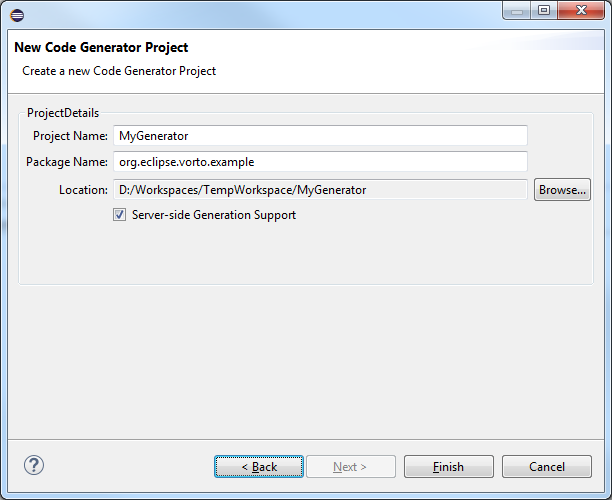
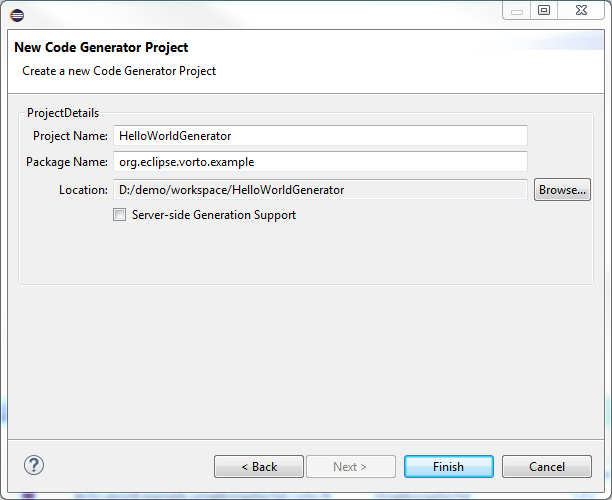
updated document "how to implement a code generator";

diff --git a/website/documentation/developer-api/codegenerator-implementation.md b/website/documentation/developer-api/codegenerator-implementation.md
@@ -13,7 +13,6 @@ This section details the following topics:
 
 [Testing the New Code Generator](#testing-the-new-code-generator)
 
-[Runing the Example Code Generator](#running-the-example-code-generator)
 
 ## Creating a New Code Generator Plug-in Project
 
@@ -28,7 +27,7 @@ You have started your IDE.
 2. In the field **Project name**, enter a project name.  
    ![new Code Generator plug-in project]({{base}}/img/documentation/vorto_new_codegen_project.png)
 3. Click **Finish**.  
-4. The new plug-in projects **org.eclipse.vorto.example.mygenerator** and **org.eclipse.vorto.example.service** are now generated. All dependencies required by the new project, as well as default classes and configuration files are generated.  
+4. The new plug-in projects **org.eclipse.vorto.example.helloworldgenerator** is now generated. All dependencies required by the new project, as well as default classes and configuration files are generated.  
 
    ![Default Code Generator plug-in project]({{base}}/img/documentation/vorto_codegen_default.png)
 
@@ -41,34 +40,44 @@ You have created a plug-in project. (refer to [Create a New Code Generator Plug-
 Implement the actual code under the `generate()` method for the code to be generated - for example:
 
 	package org.eclipse.vorto.example
-
-	import org.eclipse.core.runtime.IProgressMonitor
-	import org.eclipse.vorto.codegen.api.ICodeGenerator
-	import org.eclipse.vorto.codegen.api.tasks.Generated
-	import org.eclipse.vorto.codegen.api.tasks.ICodeGeneratorTask
-	import org.eclipse.vorto.codegen.api.tasks.IOutputter
-	import org.eclipse.vorto.codegen.api.tasks.eclipse.EclipseProjectGenerator
+	
+	import org.eclipse.vorto.codegen.api.ChainedCodeGeneratorTask
+	import org.eclipse.vorto.codegen.api.GenerationResultZip
+	import org.eclipse.vorto.codegen.api.GeneratorTaskFromFileTemplate
+	import org.eclipse.vorto.codegen.api.IFileTemplate
+	import org.eclipse.vorto.codegen.api.mapping.InvocationContext;
+	import org.eclipse.vorto.codegen.api.IVortoCodeGenerator
 	import org.eclipse.vorto.core.api.model.informationmodel.InformationModel
-
-	class MyGenerator implements ICodeGenerator<InformationModel> {
-
-		override generate(InformationModel infomodel, IProgressMonitor monitor) {
-			new EclipseProjectGenerator(infomodel.getName()+"Device").addTask(new EmptyJavaGeneratorTask()).javaNature().generate(infomodel,monitor);
+	
+	class HelloWorldGenerator implements IVortoCodeGenerator {
+	
+		override generate(InformationModel infomodel, InvocationContext context) {
+			var output = new GenerationResultZip(infomodel,getServiceKey());
+			var generator = new ChainedCodeGeneratorTask<InformationModel>();
+			generator.addTask(new GeneratorTaskFromFileTemplate(new SampleTemplate()));
+			generator.generate(infomodel,context,output);
+			return output
 		}
-
-		public static class EmptyJavaGeneratorTask implements ICodeGeneratorTask<InformationModel> {
-			public override generate(InformationModel infomodel, IOutputter outputter) {
-		    	outputter.output(new Generated(infomodel.getName(),null, getContent));
-		    }
-		    def String getContent() {
-		   		return '//My first code generator for vorto';
+		
+		public static class SampleTemplate implements IFileTemplate<InformationModel> {
+			override getFileName(InformationModel context) {
+				return "sample.txt"
+			}
+				
+			override getPath(InformationModel context) {
+				return "output"
+			}
+				
+			override getContent(InformationModel model, InvocationContext context) {
+		   		return '''Hello World from information model «model.name» !''';
 		    }
 		}
-
-		override getName() {
-			return "MyGenerator";
+		
+		override getServiceKey() {
+			return "helloworldgenerator";
 		}
 	}
+
 
 <table class="table table-bordered">
 	<tbody>
@@ -91,31 +100,18 @@ After packaging and deploying the plug-in in the eclipse plug-ins folder the cod
 
 **Proceed as follows**
 
-1. In the **Package Explorer**, select the plug-in project (`MyGenerator` in the example).
+1. In the **Package Explorer**, select the plug-in project (`HelloWorldGenerator` in the example).
 2. From the context menu, choose **Run As > Eclipse Application**.
   A new Eclipse instance is started.
 3. Switch to the **Vorto** perspective.
-4. Create an information model (e.g., `PhilipsHue`) and select it.
-5. From the context menu, choose **Generate Code > Invoke MyGenerator**.  
-  ![testing demo generator]({{base}}/img/documentation/vorto_invoke_mygenerator.png)  
-  A new project with name `PhilipsHueDevice` is generated.  
-  ![testing demo generator]({{base}}/img/documentation/vorto_mygenerator_result.png)
+4. Create a new Vorto Project.
+5. Create an information model or download an existing information model from vorto repository (e.g., `XDK`) and select it.
+6. From the context menu, choose **Generate Code > HelloWorldGenerator**.  
+  ![testing demo generator]({{base}}/img/documentation/vorto_invoke_HelloWorldGenerator.png)  
+  A new project with name `XDK_helloworldgenerator_generated` is generated.  
+  ![testing demo generator]({{base}}/img/documentation/vorto_HelloWorldGenerator_result.png)
+7. Open the file `sample.txt`, it shows "Hello world from information model XDK !".
 
 
-## Runing the Example Code Generator
+This example code generator is provided for you to understand code generator easier. There are already some predefined code generators included in our code base, please see the list [here](https://github.com/eclipse/vorto/blob/development/server/generators/Readme.md). 
 
-An example code generator is provided for you to understand code generator easier. The implementation convert all function block models in a information model to json format. Please follow below steps to run example code generator.
-
-**Proceed as follows**
-
-1. In the main menu, click **File > New > Project > Vorto > Code Generator Project**.
-   The **New Code Generator Project** dialog opens.
-2. In the field **Project name**, enter a project name. Also check the option **Add Example Code Generator Project**.  
-   ![new Code Generator plug-in project]({{base}}/img/documentation/vorto_new_codegen_project.png)  
-   Beside your project, an example code generator project **org.eclipse.vorto.codegen.example** will also be generated.
-3. Create an information model (e.g., `PhilipsHue`).
-4. Create one or more function block(s) and add it or them to the information model.
-5. From the context menu, choose **Generate Code > Invoke JsonGenerator**.  
-   ![testing demo generator]({{base}}/img/documentation/vorto_invoke_json_generator.png)  
-   A new project with name `PhilipsHueDevice` is generated.  
-   ![testing demo generator]({{base}}/img/documentation/vorto_json_generator_result.png)
